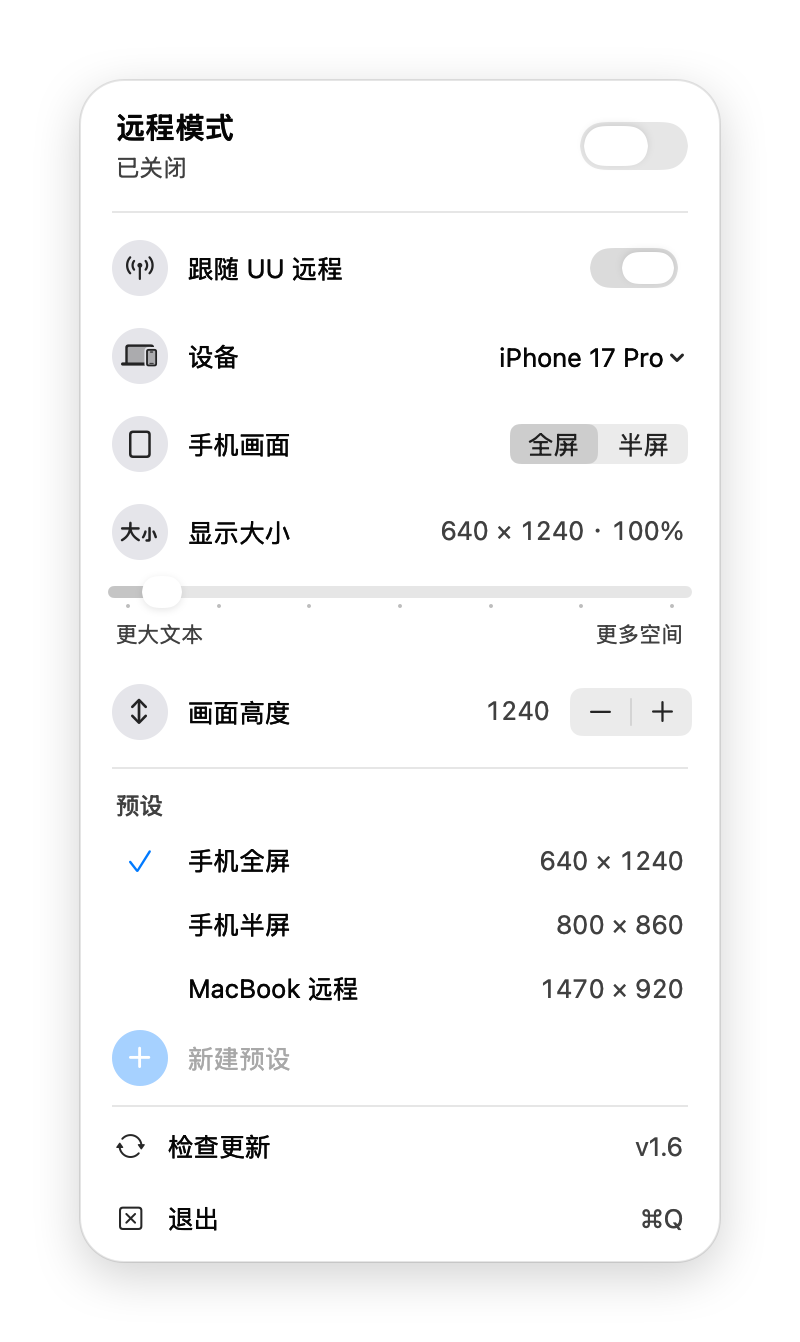
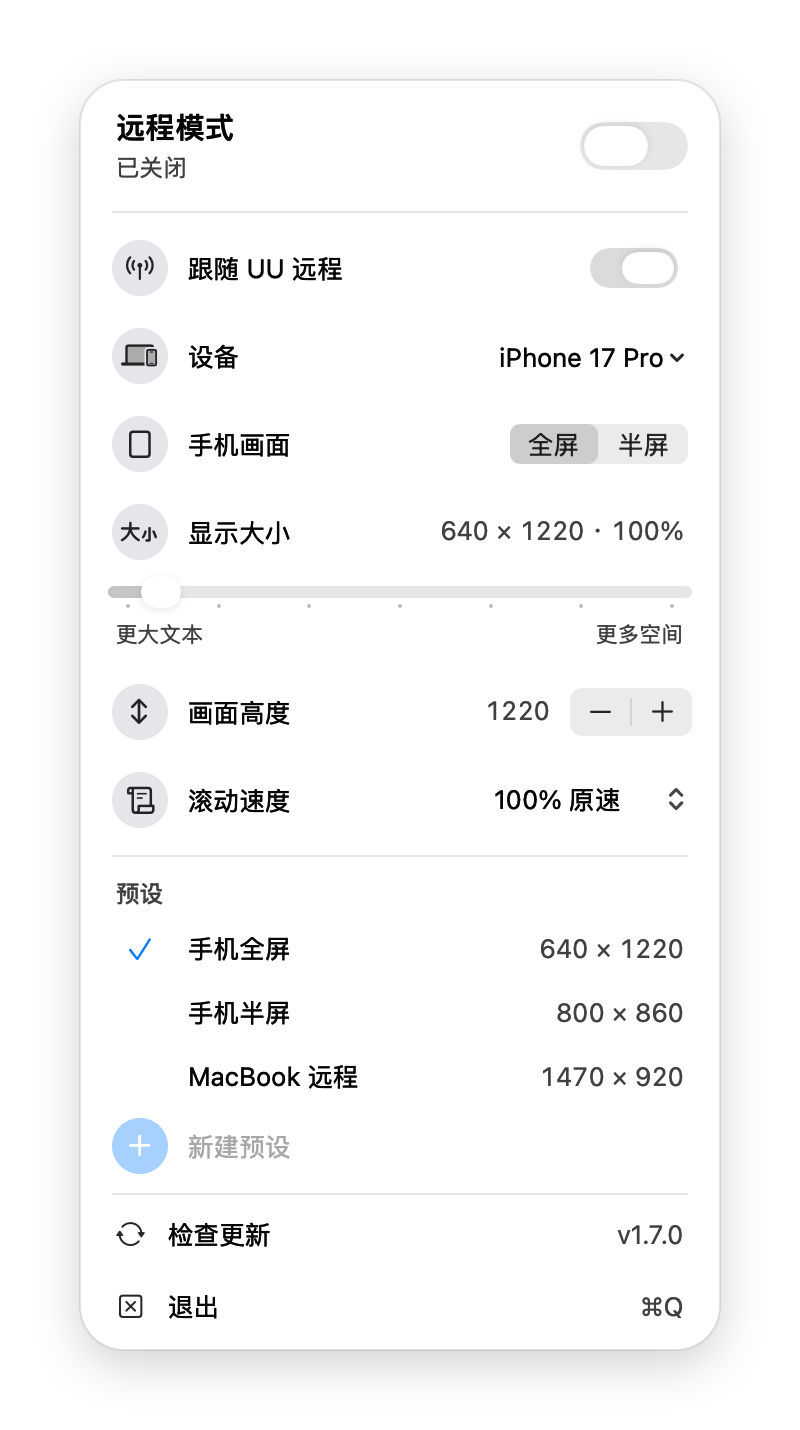
PhoneMode 1.7.0：新增滚动速度，菜单栏图标默认靠近控制中心
面板新增「滚动速度」，可把 UU 远程发来的滚动调到原速的 12%～200%，本机鼠标和触控板不受影响；调整放在 Mos 这类平滑滚动工具处理之后，需要辅助功能权限
签名改为只认包名，更新后辅助功能权限保留
菜单栏图标默认放在控制中心左边，远程画面变窄时不容易被挤掉
README、使用说明和面板截图补上滚动速度

diff --git a/src/ScrollSpeed.m b/src/ScrollSpeed.m
@@ -1,0 +1,96 @@
+#import "ScrollSpeed.h"
+#include <libproc.h>
+
+static CFMachPortRef tap;
+static double factor = 1;
+// 整数位移缩小后不足 1 的部分攒着，下次补上，慢慢滑也能动
+static double restPt1, restPt2, restLine1, restLine2;
+
+static BOOL fromUU(CGEventRef e) {
+    static pid_t lastPid;
+    static BOOL lastIs;
+    pid_t pid = (pid_t)CGEventGetIntegerValueField(e, kCGEventSourceUnixProcessID);
+    if (pid != lastPid) {
+        char name[256] = "";
+        proc_name(pid, name, sizeof name);
+        lastPid = pid;
+        lastIs = strncmp(name, "UURemote", 8) == 0;
+    }
+    return lastIs;
+}
+
+static int64_t take(double v, double *rest) {
+    *rest += v;
+    int64_t n = (int64_t)trunc(*rest);
+    *rest -= n;
+    return n;
+}
+
+static CGEventRef onEvent(CGEventTapProxy p, CGEventType t, CGEventRef e, void *u) {
+    // 回调太慢或用户操作时系统会停掉拦截，重新打开
+    if (t == kCGEventTapDisabledByTimeout || t == kCGEventTapDisabledByUserInput) {
+        if (tap) {
+            CGEventTapEnable(tap, true);
+        }
+        return e;
+    }
+    if (t != kCGEventScrollWheel || factor == 1 || !fromUU(e)) {
+        return e;
+    }
+    double l1 = CGEventGetIntegerValueField(e, kCGScrollWheelEventDeltaAxis1);
+    double l2 = CGEventGetIntegerValueField(e, kCGScrollWheelEventDeltaAxis2);
+    double p1 = CGEventGetIntegerValueField(e, kCGScrollWheelEventPointDeltaAxis1);
+    double p2 = CGEventGetIntegerValueField(e, kCGScrollWheelEventPointDeltaAxis2);
+    double f1 = CGEventGetDoubleValueField(e, kCGScrollWheelEventFixedPtDeltaAxis1);
+    double f2 = CGEventGetDoubleValueField(e, kCGScrollWheelEventFixedPtDeltaAxis2);
+    // 先写行数：写行数会把像素位移一起重算，所以像素和小数位移放在后面写
+    CGEventSetIntegerValueField(e, kCGScrollWheelEventDeltaAxis1, take(l1 * factor, &restLine1));
+    CGEventSetIntegerValueField(e, kCGScrollWheelEventDeltaAxis2, take(l2 * factor, &restLine2));
+    CGEventSetIntegerValueField(e, kCGScrollWheelEventPointDeltaAxis1, take(p1 * factor, &restPt1));
+    CGEventSetIntegerValueField(e, kCGScrollWheelEventPointDeltaAxis2, take(p2 * factor, &restPt2));
+    CGEventSetDoubleValueField(e, kCGScrollWheelEventFixedPtDeltaAxis1, f1 * factor);
+    CGEventSetDoubleValueField(e, kCGScrollWheelEventFixedPtDeltaAxis2, f2 * factor);
+    return e;
+}
+
+BOOL scrollSpeedSet(double f) {
+    factor = f;
+    restPt1 = restPt2 = restLine1 = restLine2 = 0;
+    if (f == 1) {
+        if (tap) {
+            CGEventTapEnable(tap, false);
+        }
+        return YES;
+    }
+    if (!AXIsProcessTrustedWithOptions((__bridge CFDictionaryRef) @{(__bridge id)kAXTrustedCheckOptionPrompt : @YES})) {
+        // 等用户在系统设置里打勾：每秒看一次，授权了就接着开，最多等 5 分钟
+        static NSTimer *wait;
+        [wait invalidate];
+        __block int left = 300;
+        wait = [NSTimer scheduledTimerWithTimeInterval:1
+                                               repeats:YES
+                                                 block:^(NSTimer *t) {
+                                                     if (AXIsProcessTrusted()) {
+                                                         [t invalidate];
+                                                         scrollSpeedSet(factor);
+                                                     } else if (--left <= 0 || factor == 1) {
+                                                         [t invalidate];
+                                                     }
+                                                 }];
+        return NO;
+    }
+    if (!tap) {
+        // 放在最下游：Mos 这类平滑滚动工具会把 UU 的一下滚动拆成几十个事件重新发出（来源进程不变），
+        // 在它前面缩小没用，它按自己的步长放大
+        tap = CGEventTapCreate(kCGAnnotatedSessionEventTap, kCGTailAppendEventTap, kCGEventTapOptionDefault,
+                               CGEventMaskBit(kCGEventScrollWheel), onEvent, NULL);
+        if (!tap) {
+            return NO;
+        }
+        CFRunLoopSourceRef src = CFMachPortCreateRunLoopSource(NULL, tap, 0);
+        CFRunLoopAddSource(CFRunLoopGetMain(), src, kCFRunLoopCommonModes);
+        CFRelease(src);
+    }
+    CGEventTapEnable(tap, true);
+    return YES;
+}

diff --git a/src/AppDelegate.m b/src/AppDelegate.m
@@ -4,6 +4,7 @@
 #import "OtherApps.h"
 #import "PhoneModels.h"
 #import "Rows.h"
+#import "ScrollSpeed.h"
 #import "Theme.h"
 #import "UUWatch.h"
 #import "Updater.h"
@@ -24,7 +25,7 @@
 @property(strong) NSSwitch *power, *followUU;
 @property(strong) NSSegmentedControl *fullSeg;
 @property(strong) NSTextField *stateLabel, *sizeLabel, *heightLabel;
-@property(strong) NSPopUpButton *modelBtn;
+@property(strong) NSPopUpButton *modelBtn, *scrollBtn;
 @property(strong) NSSlider *slider;
 @property(strong) NSSegmentedControl *heightSeg;
 @property(strong) id<NSObject> activity;
@@ -297,6 +298,26 @@ static void placeRight(NSView *v, CGFloat y, NSView *c, CGFloat right) {
     placeRight(v, y, self.heightSeg, -2);
     self.heightLabel = numLabel(60);
     placeRight(v, y, self.heightLabel, self.heightSeg.frame.size.width + 6);
+
+    // 滚动速度：只调 UU 远程发来的滚动，100% 是原速。装了 Mos 这类平滑滚动工具的会被放大，要往低调；没装的嫌慢可以调快
+    y += ROW_H;
+    rowTitle(v, y, @"scroll", NO, L(@"滚动速度"));
+    self.scrollBtn = [[NSPopUpButton alloc] initWithFrame:NSMakeRect(0, 0, 90, 24) pullsDown:NO];
+    self.scrollBtn.bordered = NO;
+    for (NSNumber *pct in @[ @200, @150, @100, @70, @50, @35, @25, @18, @12 ]) {
+        NSString *t = [NSString stringWithFormat:@"%@%%", pct];
+        [self.scrollBtn addItemWithTitle:pct.integerValue == 100 ? [NSString stringWithFormat:@"%@ %@", t, L(@"原速")] : t];
+        self.scrollBtn.lastItem.tag = pct.integerValue;
+    }
+    [self.scrollBtn sizeToFit];
+    self.scrollBtn.target = self;
+    self.scrollBtn.action = @selector(scrollPicked:);
+    self.scrollBtn.toolTip = L(@"调整手机上滑动的滚动速度，只影响 UU 远程，不影响本机鼠标和触控板。第一次调整要在系统设置里允许辅助功能");
+    placeRight(v, y, self.scrollBtn, -4);
+    if (![self.scrollBtn selectItemWithTag:[self scrollPct]]) {
+        [self.scrollBtn selectItemWithTag:100];
+    }
+
     y += ROW_H + 6;
     separator(v, y);
 
@@ -468,6 +489,20 @@ static void placeRight(NSView *v, CGFloat y, NSView *c, CGFloat right) {
     if (f.size.height != self.root.frame.size.height) {
         self.root.frame = f;
         self.popover.contentSize = f.size;
+    }
+}
+
+// 滚动速度百分比，没设过是 100
+- (NSInteger)scrollPct {
+    NSInteger p = [self.ud integerForKey:@"scrollPct"];
+    return p > 0 && p <= 200 ? p : 100;
+}
+
+- (void)scrollPicked:(NSPopUpButton *)b {
+    [self.ud setInteger:b.selectedTag forKey:@"scrollPct"];
+    if (!scrollSpeedSet(b.selectedTag / 100.0)) {
+        // 还没授权：收起面板，让系统的授权提示露出来。授权后自动生效
+        [self.popover performClose:nil];
     }
 }
 
@@ -867,6 +902,13 @@ static NSImage *statusImage(BOOL on) {
     [mainMenu addItemWithTitle:@"" action:nil keyEquivalent:@""].submenu = appMenu;
     NSApp.mainMenu = mainMenu;
     [self load];
+    scrollSpeedSet([self scrollPct] / 100.0);
+    // 菜单栏图标默认放在控制中心左边紧挨着：远程画面窄，排在后面的图标会被挤掉看不见。
+    // 数值是离屏幕右边的距离，越小越靠右；用户按住 ⌘ 拖过之后系统会改写它，这里只在没有时写
+    NSString *pos = @"NSStatusItem Preferred Position Item-0";
+    if (![self.ud objectForKey:pos]) {
+        [self.ud setDouble:200 forKey:pos];
+    }
     self.statusItem = [NSStatusBar.systemStatusBar statusItemWithLength:NSSquareStatusItemLength];
     self.statusItem.button.toolTip = L(@"远程模式");
     self.statusItem.button.target = self;

diff --git a/src/ScrollSpeed.h b/src/ScrollSpeed.h
@@ -1,0 +1,6 @@
+// 调整 UU 远程发来的滚动速度：UU 把手机上的滑动转成 Mac 的连续滚动事件，它自己能调的范围不够（装了 Mos 这类平滑滚动工具时会被放大好几倍）。
+// 只改来源进程是 UU 的滚动，本机鼠标、触控板不受影响。改别的程序的事件要「辅助功能」权限
+#import <Cocoa/Cocoa.h>
+
+// 设置滚动倍数（小于 1 调慢、大于 1 调快，1 表示原速并停止拦截）。返回 NO 表示还没有辅助功能权限：已弹出系统授权提示，授权后自动生效
+BOOL scrollSpeedSet(double factor);

diff --git a/README.en.md b/README.en.md
@@ -14,22 +14,23 @@ PhoneMode creates a virtual display as the main screen, sized for the device you
 
 - **Sized for your device**: pick your phone by brand and model. By default the screen fills everything below the status bar; switch to Half when you need to type, and it fits exactly between the status bar and the keyboard. For a computer, pick a 13-inch laptop or a 27-inch monitor, and the screen fills it with no black bars
 - **Follows UU Remote**: turns on when NetEase UU Remote connects, and turns off about 6 seconds after it disconnects, restoring your original resolution
-- **Fine-tune on the fly**: drag Display Size to scale everything, or change Screen Height on its own
+- **Fine-tune on the fly**: drag Display Size to scale everything, change Screen Height on its own, or set how fast swiping on your phone scrolls with Scroll Speed
 - **Presets**: save a size as a preset and switch to it with one click. Switching between phone and computer doesn't drop the remote session
 
 <p align="center"><img src="docs/remote-diagram.jpg" width="100%" alt="The Mac screen shown at the phone's aspect ratio, filling the whole phone screen"></p>
 
 ## Usage
 
-<p align="center"><picture><source media="(prefers-color-scheme: dark)" srcset="docs/screenshot-dark.png"><img src="docs/screenshot-light.png" width="300" alt="The menu bar panel: switch, device, phone screen, display size, screen height and presets"></picture></p>
+<p align="center"><picture><source media="(prefers-color-scheme: dark)" srcset="docs/screenshot-dark.png"><img src="docs/screenshot-light.png" width="300" alt="The menu bar panel: switch, device, phone screen, display size, screen height, scroll speed and presets"></picture></p>
 
 1. Click the line-chart icon in the menu bar to open the panel. A hollow box means off; a filled box means on
 2. Under "Device", pick what you're controlling from: your phone model, or a laptop or monitor
 3. On a phone, pick Full or Half under "Phone Screen": Full for viewing, Half when you need to type, leaving room for the keyboard at the bottom
 4. "Follow UU Remote" is on by default, so PhoneMode switches as soon as UU connects. You can also use the switch at the top
 5. If the text is too big or too small, drag "Display Size". If the keyboard covers the bottom of the screen, click − next to "Screen Height"
-6. When it looks right, click "New Preset" to save it. Double-click a preset to rename it; right-click to overwrite it with the current size or delete it
-7. Click "Quit" or press ⌘Q to restore your displays
+6. If swiping on your phone scrolls too fast or too slow, pick a level under "Scroll Speed". 100% is UU's own speed. Smooth-scrolling tools like Mos speed it up a lot, so try 25% or lower. The first time, allow Accessibility in System Settings
+7. When it looks right, click "New Preset" to save it. Double-click a preset to rename it; right-click to overwrite it with the current size or delete it
+8. Click "Quit" or press ⌘Q to restore your displays
 
 ## Install
 
@@ -41,6 +42,7 @@ Requires macOS 12 or later, on Apple silicon or Intel. The interface follows you
 
 - The resolution change is temporary. When PhoneMode turns off or quits, your displays go back to normal, and the resolution you chose in System Settings is never changed
 - If Crisp, BetterDisplay or a similar virtual display tool is running, PhoneMode quits it before turning on and reopens it afterward
+- When Scroll Speed isn't 100%, PhoneMode needs Accessibility permission. It only adjusts scrolling sent by UU Remote; your own mouse and trackpad aren't affected
 - The only network access is a daily check for new versions on GitHub: a single request with no information about your Mac
 
 ## Build from source

diff --git a/README.md b/README.md
@@ -14,22 +14,23 @@
 
 - **按设备算尺寸**：手机按品牌和型号选，默认全屏，画面铺满状态栏以下整块屏幕；要打字时切到半屏，画面刚好是状态栏以下、输入法以上那块。电脑可以选 13 英寸笔记本或 27 英寸显示器，铺满不留黑边
 - **跟随 UU 远程**：网易 UU 远程连上自动开启，断开约 6 秒后自动关闭，回到原来的分辨率
-- **随手微调**：拖「显示大小」整体放大缩小，用「画面高度」单独调高调矮
+- **随手微调**：拖「显示大小」整体放大缩小，用「画面高度」单独调高调矮，用「滚动速度」调手机上滑动的快慢
 - **预设**：调好的尺寸存成预设，点一下就切过去。手机和电脑之间切换时，远程画面不断
 
 <p align="center"><img src="docs/remote-diagram.jpg" width="100%" alt="电脑画面按手机比例显示，手机上铺满整块屏幕"></p>
 
 ## 使用
 
-<p align="center"><picture><source media="(prefers-color-scheme: dark)" srcset="docs/screenshot-dark.png"><img src="docs/screenshot-light.png" width="300" alt="菜单栏面板：开关、设备、手机画面、显示大小、画面高度和预设"></picture></p>
+<p align="center"><picture><source media="(prefers-color-scheme: dark)" srcset="docs/screenshot-dark.png"><img src="docs/screenshot-light.png" width="300" alt="菜单栏面板：开关、设备、手机画面、显示大小、画面高度、滚动速度和预设"></picture></p>
 
 1. 点菜单栏的折线图标打开面板。方框空心是关闭，实心是开启
 2. 在「设备」里选控制端：用手机远程就选手机型号，用电脑远程就选笔记本或显示器
 3. 用手机远程时，在「手机画面」里选全屏或半屏：只看不打字选全屏，要打字选半屏，下面留出输入法的位置
 4. 「跟随 UU 远程」默认打开，UU 连上就自动切换。也可以用顶部的开关手动开关
 5. 字太大或太小，拖「显示大小」。画面底部被输入法挡住，点「画面高度」的 −
-6. 调好后点「新建预设」存下来。双击预设能改名，右键能用当前尺寸覆盖或删除
-7. 点「退出」或按 ⌘Q，显示器恢复原样
+6. 手机上滑动太快或太慢，在「滚动速度」里选一档，100% 是 UU 原速。装了 Mos 这类平滑滚动工具时滚动会被放大，往 25% 以下选。第一次调整要在系统设置里允许辅助功能
+7. 调好后点「新建预设」存下来。双击预设能改名，右键能用当前尺寸覆盖或删除
+8. 点「退出」或按 ⌘Q，显示器恢复原样
 
 ## 安装
 
@@ -41,6 +42,7 @@
 
 - 分辨率只临时切换，关闭远程模式或退出后恢复原样，系统设置里你选的分辨率不改
 - 开着 Crisp、BetterDisplay 这类也用虚拟屏的工具时，开启前先让它们退出，关闭后再打开
+- 滚动速度不是 100% 时，要「辅助功能」权限，只调整 UU 远程发来的滚动，本机鼠标和触控板不受影响
 - 只有一处联网：每天检查一次 GitHub 上的新版本，只发一个请求，不带任何本机信息
 
 ## 从源码编译

diff --git a/CHANGELOG.md b/CHANGELOG.md
@@ -1,5 +1,11 @@
 # 更新记录
 
+## 1.7.0
+
+1. 新增「滚动速度」：可把手机上滑动的滚动速度调到 UU 原速的 12%～200%，只调整 UU 远程发来的滚动，本机鼠标和触控板不受影响。装了 Mos 这类平滑滚动工具时，UU 的滚动会被放大好几倍，调整放在它处理之后，往低调就能生效。第一次调整需要在系统设置里允许辅助功能。
+2. 签名改为只认包名，更新后辅助功能权限保留，不用重新勾选。
+3. 菜单栏图标默认放在控制中心左边紧挨着，远程画面变窄时不容易被挤掉；按住 ⌘ 拖过的以拖到的位置为准。
+
 ## 1.6.2
 
 1. 修复从 1.5 及以前升级后，「手机画面」显示全屏、分辨率却还是半屏尺寸，要重新选一次型号才对。原因是旧版存的是半屏尺寸，升级后没有换算。现在升级后第一次启动时，存的是半屏尺寸就按全屏换算，显示大小的比例不变。
